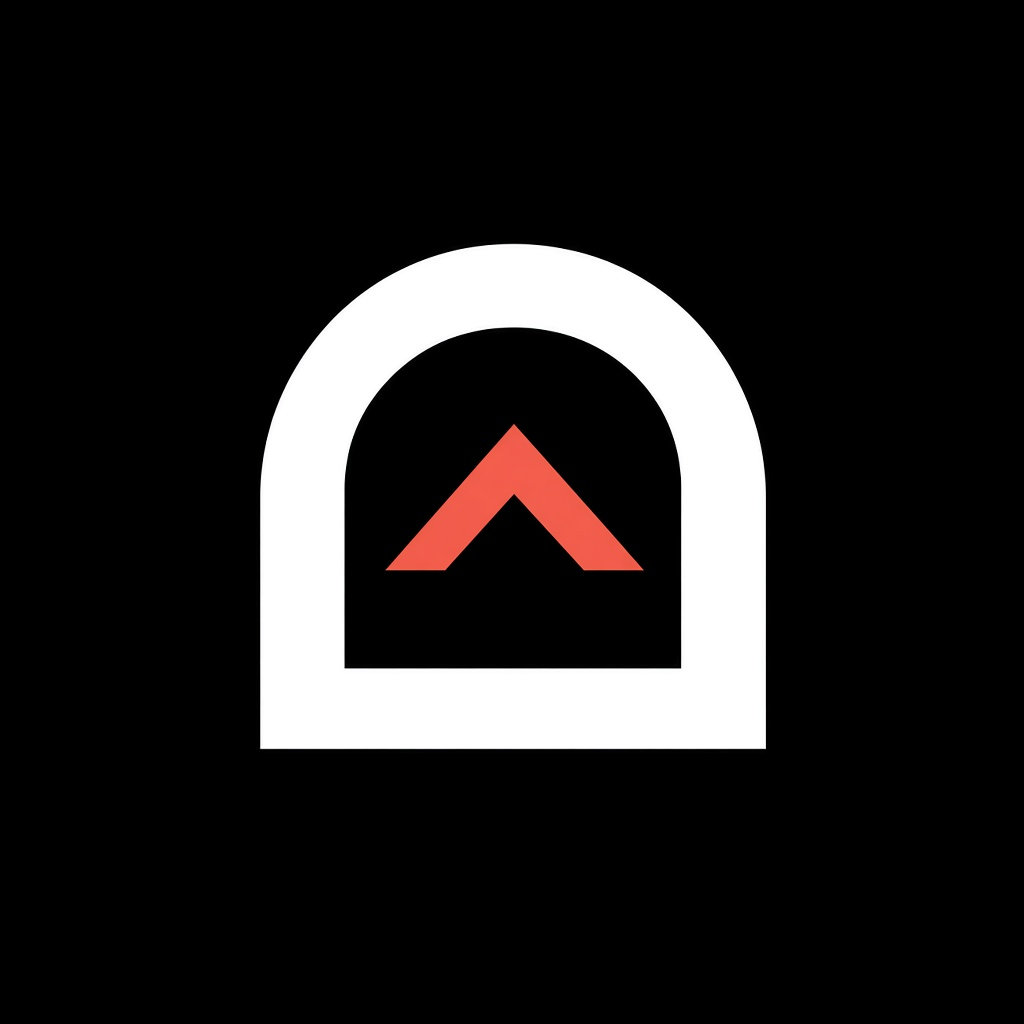
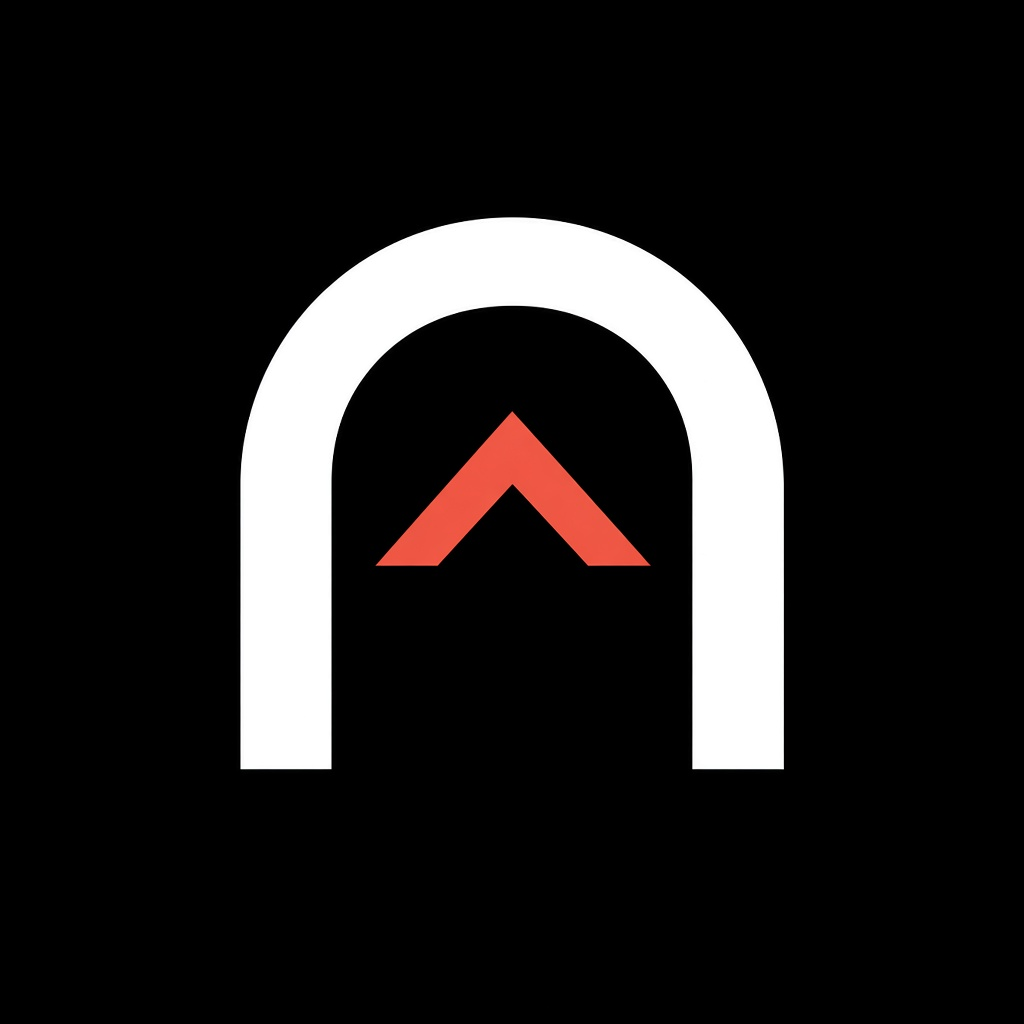
Refresh brand assets to open-bottom arch lock
Swap site logos for the locked open-bottom arch + coral chevron kit,
add a true transparent header PNG, and point favicon/OG at the new marks.

Changed region(s): [[0.2188, 0.1875, 0.7812, 0.75], [0.375, 0.4062, 0.625, 0.5625], [0.5312, 0.4375, 0.5625, 0.4688]]

diff --git a/apps/web/app/layout.tsx b/apps/web/app/layout.tsx
@@ -20,7 +20,16 @@ export const metadata: Metadata = {
   description:
     "Discord LFG + per-server Vibe Check / Ghostless reliability. Parties, vibes, fewer ghosts.",
   icons: {
-    icon: "/brand/rallied-square-dark.jpg",
+    icon: [
+      { url: "/brand/rallied-favicon-32.jpg", sizes: "32x32", type: "image/jpeg" },
+      { url: "/brand/rallied-square-dark.jpg", type: "image/jpeg" },
+    ],
+  },
+  openGraph: {
+    title: "Rallied — LFG that remembers who flakes",
+    description:
+      "Discord LFG + per-server Vibe Check / Ghostless reliability. Parties, vibes, fewer ghosts.",
+    images: [{ url: "/brand/rallied-og-landscape.jpg", width: 1200, height: 675 }],
   },
 };
 
